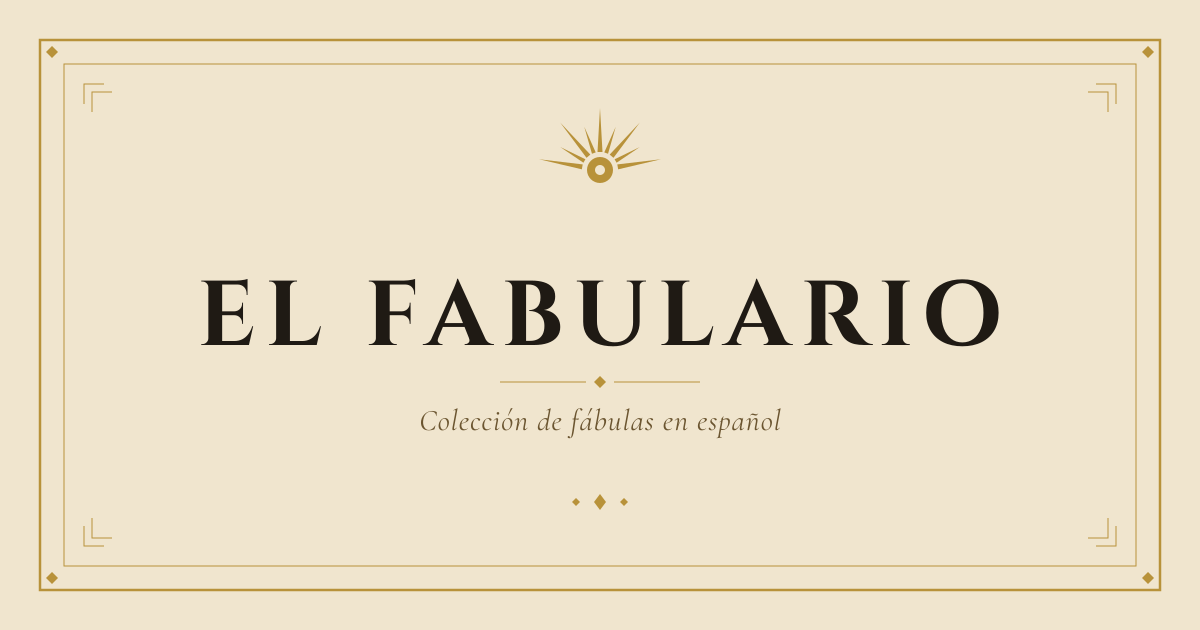
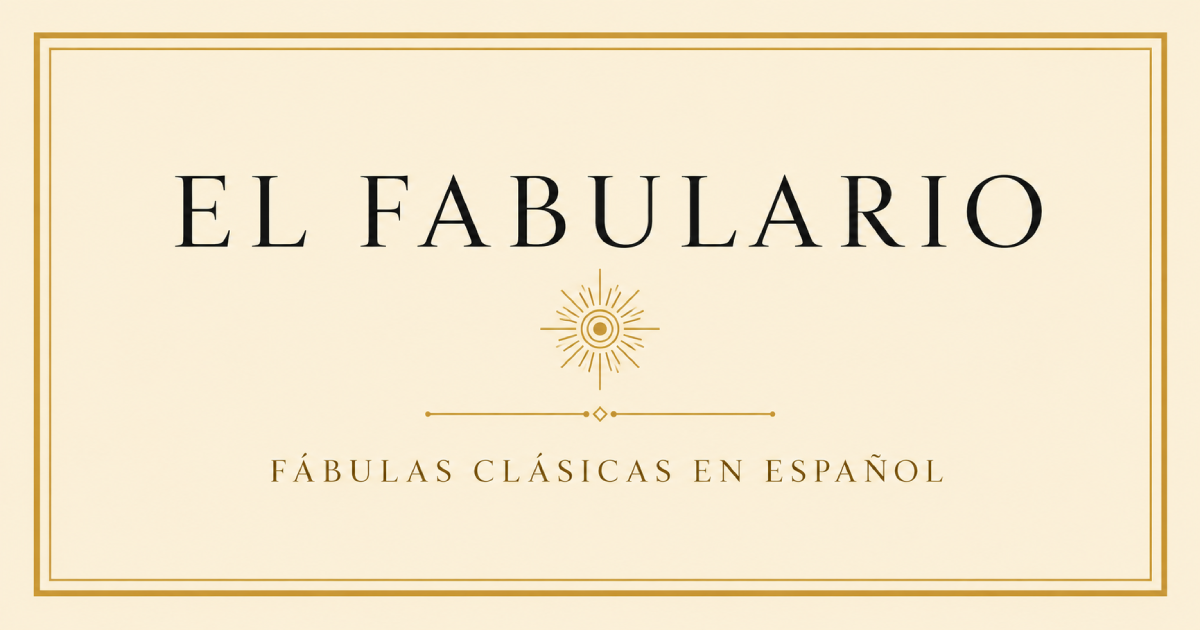
feat(seo): add og-default.png and longer meta description
- Add public/og-default.png (1200x630) as OG image fallback for
  pages without their own illustration (home, /autores/, /fabulas/,
  /buscar/, /colaborar/, listing pages, etc.).
- Split SITE_DESCRIPTION (now ~140 char, meta-only) from new
  SITE_TAGLINE (~33 char, visible in home subtitle). Hero layout
  preserved; SEO description now within Google's recommended range.
- entradas/[...slug].astro: pass image, type='article', publishedTime
  and author to BaseHead, matching Fabula.astro pattern. Previously
  bitacora and correspondence entries had no og:image and were
  typed as 'website'.

diff --git a/src/consts.ts b/src/consts.ts
@@ -1,7 +1,14 @@
 // Datos globales del sitio. Importables desde cualquier componente.
 
 export const SITE_TITLE = 'El Fabulario';
+
+// Tagline editorial corto, visible en pantalla (p.ej. subtítulo del hero).
+export const SITE_TAGLINE = 'Colección de fábulas en español.';
+
+// Descripción larga, solo para <meta name="description"> y og:description.
+// No aparece en pantalla. Mantener entre 120 y 160 caracteres.
 export const SITE_DESCRIPTION =
-	'Colección de fábulas en español.';
+	'Fábulas clásicas en español, leídas con calma. Una curaduría editorial de Esopo a Samaniego, con ilustración original y narración en audio.';
+
 export const SITE_URL = 'https://elfabulario.com';
 export const SITE_LANG = 'es';
